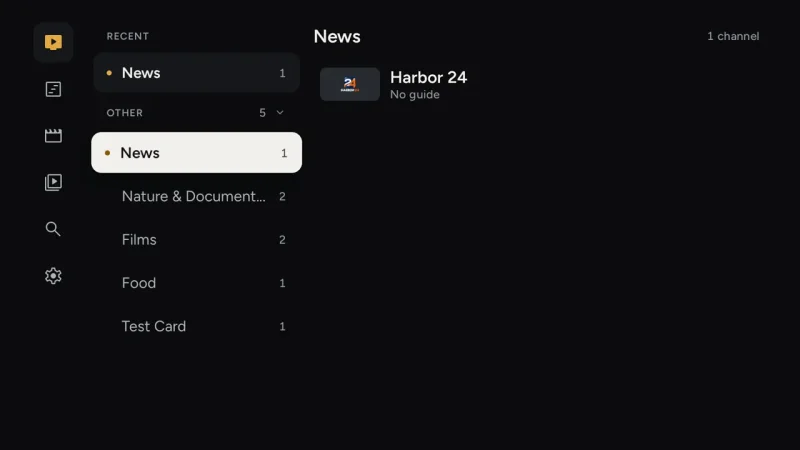
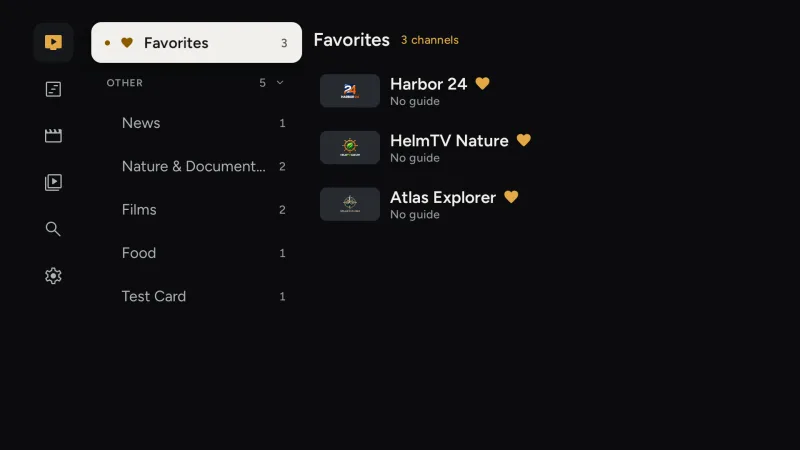
Live screenshot shows the current two-level Live screen (Favorites first)
Taken from HelmTV 1.1.2 against the demo catalog (fictional channels).

diff --git a/index.html b/index.html
@@ -279,7 +279,7 @@ details p:last-child { padding-bottom: 0.2rem; }
       <h2>See it on your TV</h2>
       <p class="section-lead">Real screenshots from the app, taken against a sample server. All channels, titles and images are invented for the demo.</p>
       <ul class="shots">
-      <li><img src="images/screen-live.webp" width="800" height="450" loading="lazy" alt="HelmTV screenshot: Live TV by category"><span>Live TV, sorted into the categories you picked</span></li>
+      <li><img src="images/screen-live.webp" width="800" height="450" loading="lazy" alt="HelmTV screenshot: Live TV with Favorites at the top of the category menu"><span>Live TV: your favorites first, then the categories you picked</span></li>
       <li><img src="images/screen-guide.webp" width="800" height="450" loading="lazy" alt="HelmTV screenshot: Program guide"><span>The program guide, with what is on now and next</span></li>
       <li><img src="images/screen-movies.webp" width="800" height="450" loading="lazy" alt="HelmTV screenshot: Movies"><span>Movies as posters, with recently added and categories</span></li>
       <li><img src="images/screen-movie-detail.webp" width="800" height="450" loading="lazy" alt="HelmTV screenshot: Movie details"><span>A movie page with a clear Play button</span></li>
